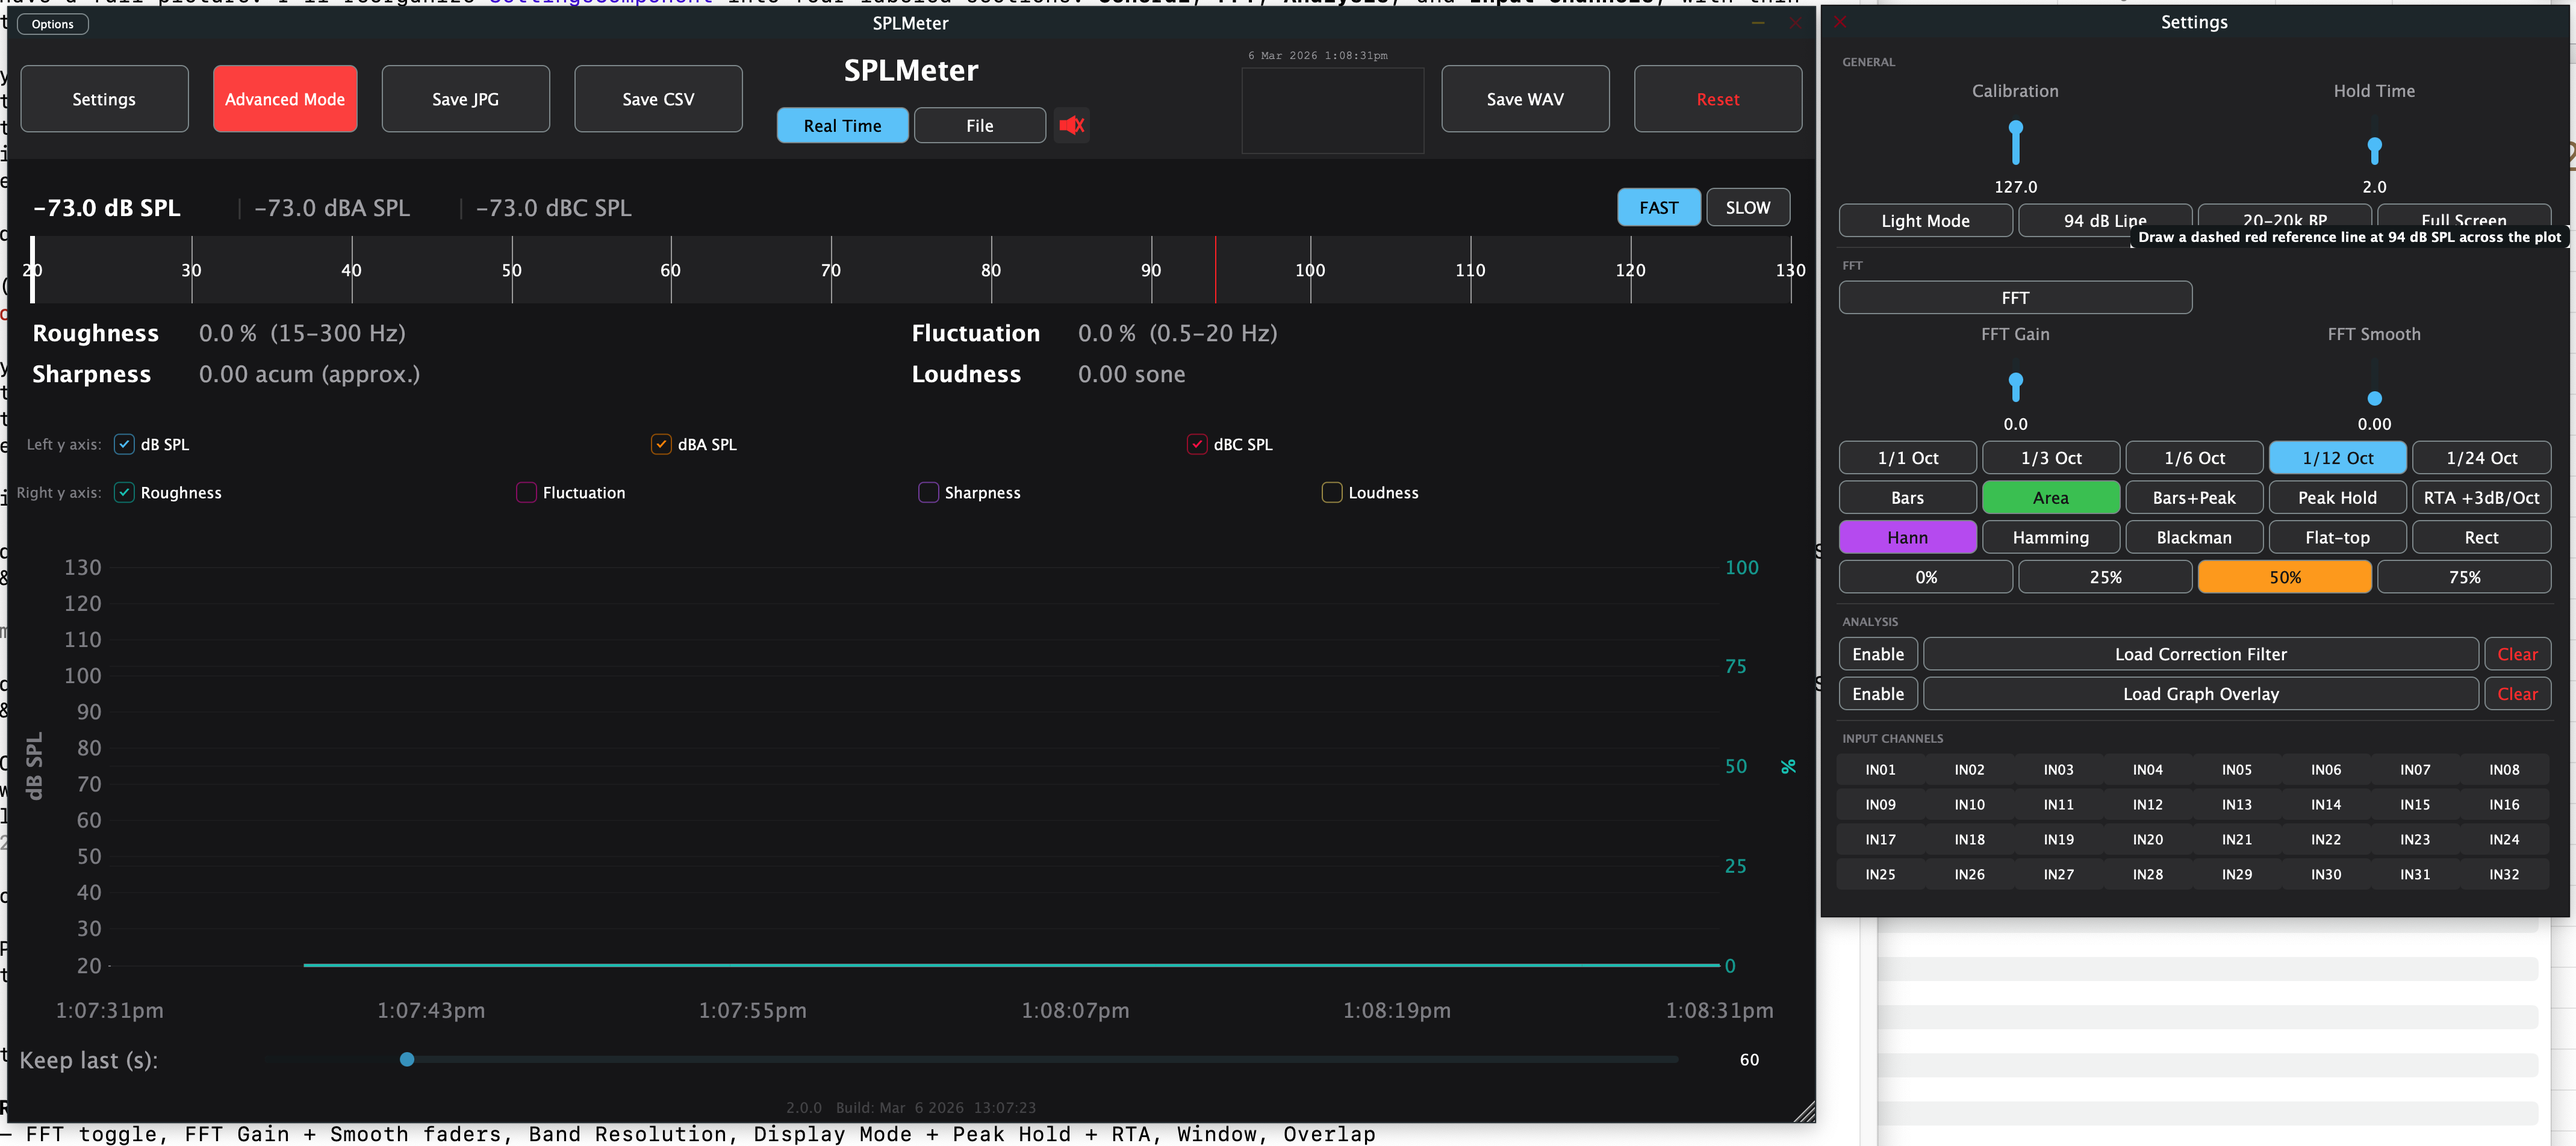
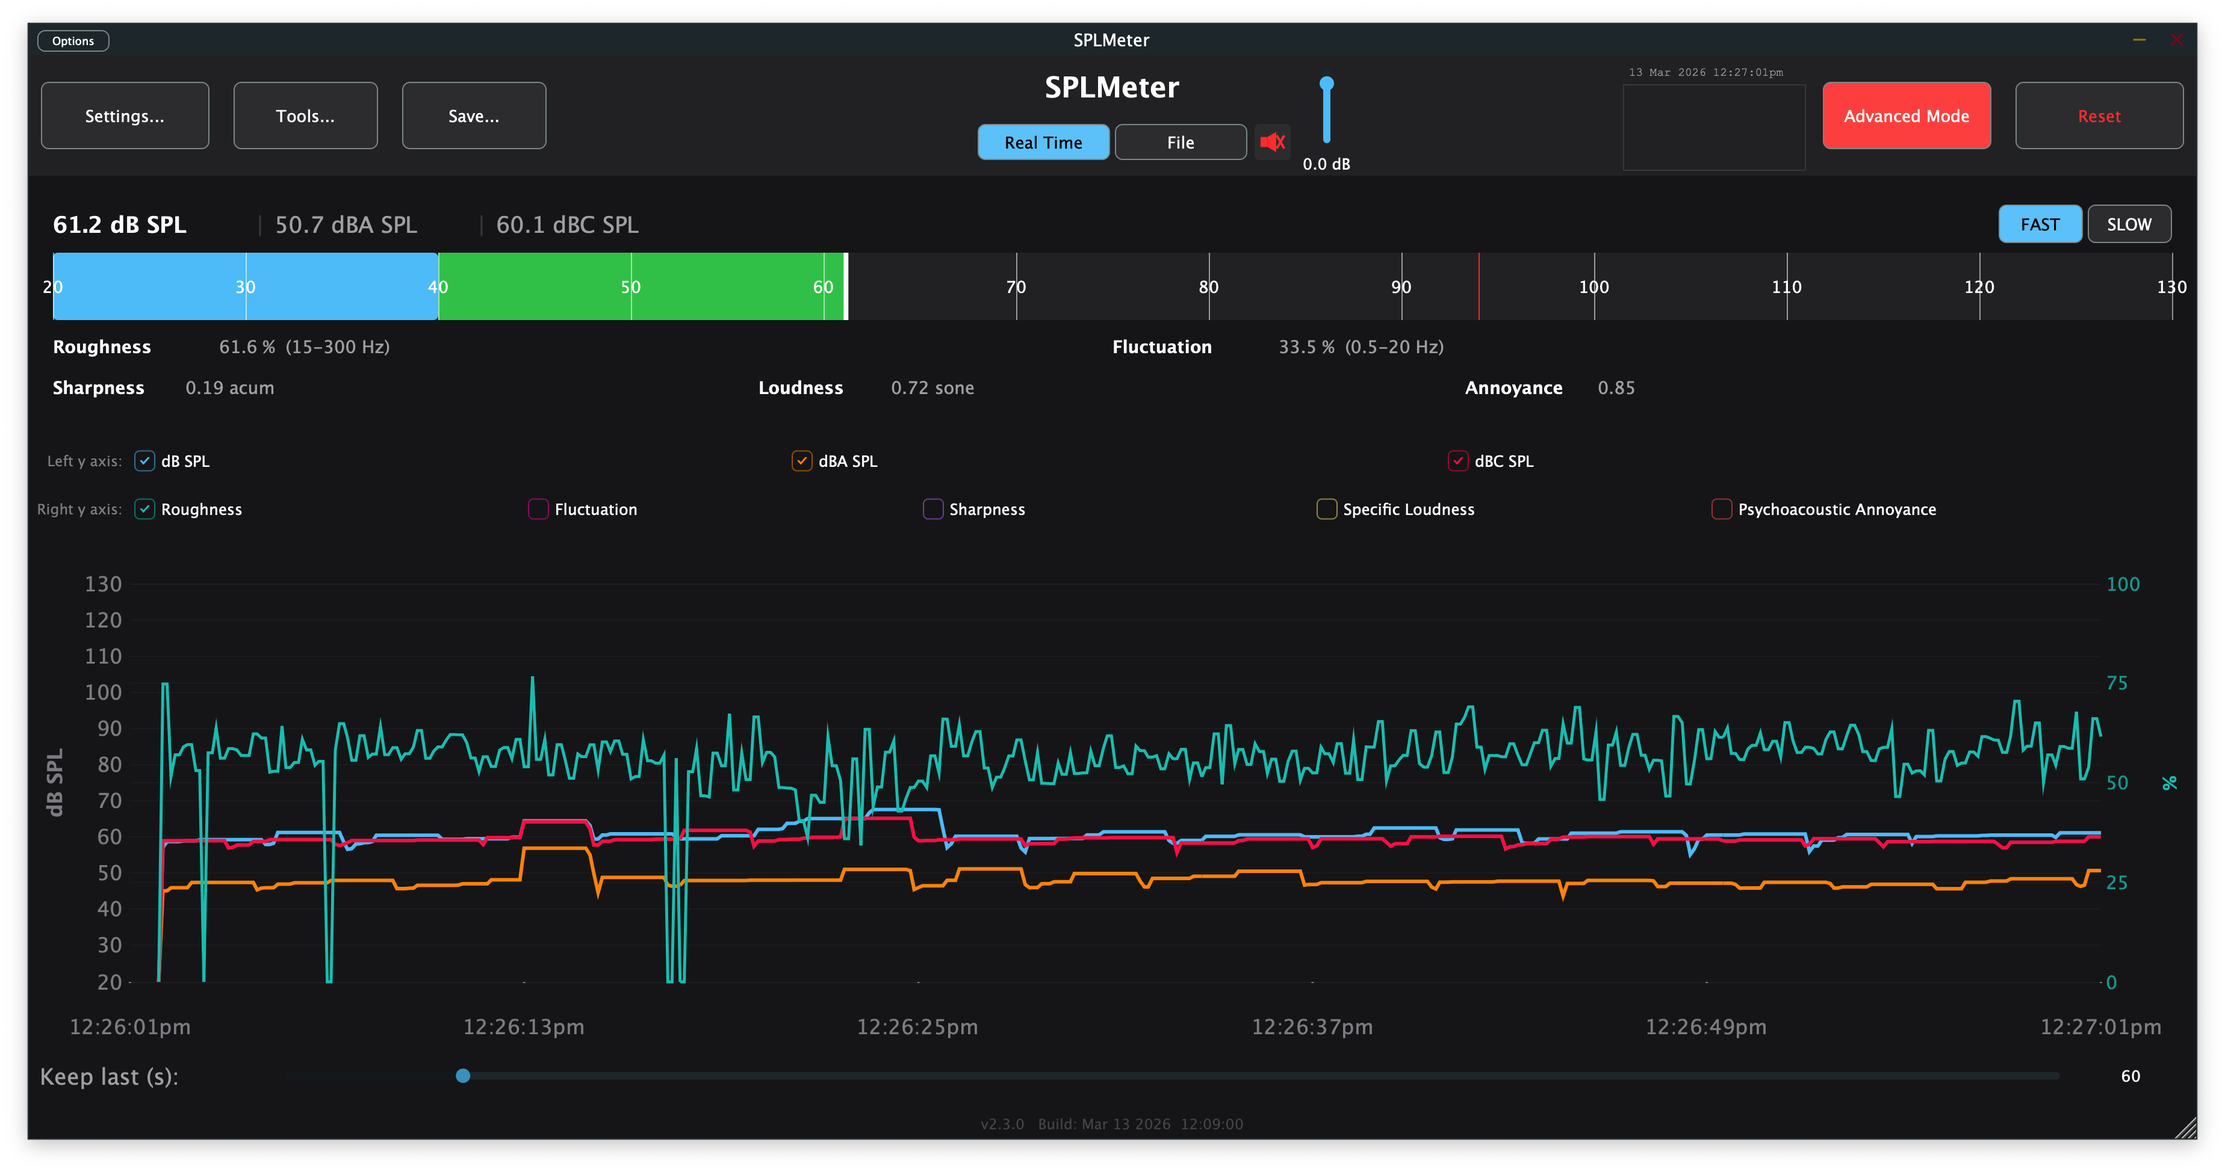
Update README for v2.4.0 with new screenshot

diff --git a/README.md b/README.md
@@ -2,7 +2,7 @@
 
 A professional Sound Pressure Level (SPL) meter built with JUCE, available as a macOS/Windows standalone app and as VST3 / AU plugin.
 
-![SPLMeter v2.0 screenshot](screenShot.png)
+![SPLMeter v2.4 screenshot](screenShot.png)
 
 ---
 
@@ -20,7 +20,12 @@ A professional Sound Pressure Level (SPL) meter built with JUCE, available as a 
 - Numeric SPL readout with peak-hold indicator
 - **Basic / Advanced mode** toggle — Basic shows only the SPL meter; Advanced adds the full log plot and psychoacoustic overlay
 - Time-series **log plot** with per-series visibility toggles (Left y-axis: dB / dB(A) / dB(C))
-- Selectable psychoacoustic overlay on the right y-axis: Roughness, Fluctuation Strength, Sharpness, Loudness
+- Selectable psychoacoustic overlay on the right y-axis: Roughness, Fluctuation Strength, Sharpness, Specific Loudness, Psychoacoustic Annoyance
+
+### Spectrogram
+- Opened via the **Tools…** menu; floating window with configurable controls
+- **Frequency scale:** Log (default) or **Mel**
+- Gain and time-resolution controls
 
 ### FFT Spectrum Analyser
 - Toggled via the **FFT** button; displayed as a semi-transparent overlay on the log plot
@@ -40,7 +45,8 @@ Continuous real-time estimation of:
 | Roughness | Perceived roughness / beating (15–300 Hz AM range) |
 | Sharpness | High-frequency spectral centroid (acum, Zwicker/Aures model) |
 | Fluctuation Strength | Slow amplitude modulation (0.5–20 Hz range) |
-| Loudness | Perceived loudness approximation (sone) |
+| Specific Loudness | Perceived loudness approximation (sone) |
+| Psychoacoustic Annoyance | Combined annoyance index (Zwicker & Fastl 1999): N × (1 + √(w_S² + w_FR²)) |
 
 ### Input Modes
 - **Real Time** — live microphone / audio interface input, up to **32 channels**
@@ -48,13 +54,18 @@ Continuous real-time estimation of:
 - **Monitor button** — speaker icon; output is muted by default, click to enable pass-through
 
 ### Export
-- **Save JPG** — exports the current view as a JPEG image
+Accessible via the **Save…** button (popup menu):
 - **Save CSV** — exports the full measurement log (timestamps, all SPL values, all psychoacoustic metrics) as a CSV file
 - **Save WAV** — saves the last *Keep Last* seconds of Input 01 and 02 as a stereo 24-bit WAV file
+- **Save Screenshot** — exports the current view as a JPEG image
+- **Save All** — saves CSV, WAV, and screenshot in one step into a chosen folder
 
 ### Analysis Tools
-- **Correction Filter** — load a frequency-response correction curve (.txt / .csv: Hz + dB pairs); applied as a linear-phase FIR filter before metering
-- **Graph Overlay** — load a reference curve and display it as a dashed blue line in the FFT view
+Accessible via the **Tools…** button (popup menu):
+- **Spectrogram** — opens the spectrogram floating window (Log or Mel frequency scale)
+- **ViSQOL** *(macOS only)* — perceptual audio quality analysis (MOS-LQO + per-band NSIM)
+- **Correction Filter** — load a frequency-response correction curve (.txt / .csv: Hz + dB pairs); applied as a linear-phase FIR filter before metering (configured in Settings)
+- **Graph Overlay** — load a reference curve and display it as a dashed blue line in the FFT view (configured in Settings)
 
 ### Title Bar Utilities
 - **Live clock** — auto-updating date/time display (updates every second)
@@ -88,7 +99,7 @@ Assigned CC numbers are shown next to each fader label (e.g. `[CC 4]`).
 | FAST / SLOW | IEC 61672 time weighting |
 | Real Time / File | Input source |
 | Monitor (speaker icon) | Enables audio pass-through output; OFF by default |
-| Settings | Opens the settings panel |
+| Settings… | Opens the settings panel |
 | Calibration | dB offset to convert full-scale to SPL (right-click for MIDI learn) |
 | Hold Time | Peak hold duration in seconds (right-click for MIDI learn) |
 | FFT Gain | Input gain for the FFT overlay (right-click for MIDI learn) |
@@ -98,10 +109,9 @@ Assigned CC numbers are shown next to each fader label (e.g. `[CC 4]`).
 | 94 dB Line | Draw a dashed reference line at 94 dB SPL in the log plot |
 | Light Mode | Switch to light theme |
 | Left y axis checkboxes | Visibility of dB SPL / dBA SPL / dBC SPL series |
-| Right y axis checkboxes | Psychoacoustic overlay: Roughness / Fluctuation / Sharpness / Loudness |
-| Save JPG | Export current view as JPEG |
-| Save CSV | Export full measurement log as CSV |
-| Save WAV | Save the last *Keep Last* seconds of IN01 + IN02 as a stereo WAV |
+| Right y axis checkboxes | Psychoacoustic overlay: Roughness / Fluctuation / Sharpness / Specific Loudness / Annoyance |
+| Save… | Popup menu: Save CSV / Save WAV / Save Screenshot / Save All |
+| Tools… | Popup menu: Spectrogram / ViSQOL (macOS) |
 | Reset | Clear log and reset peak holds |
 | Clock | Live date/time (updates every second) |
 | Note field | Free-text annotation field (3 lines) |
@@ -289,11 +299,20 @@ GitHub Actions workflows build the standalone for macOS and Windows on every pus
 |---|---|
 | **IEC 61672-1:2013** | Electroacoustics — Sound level meters. Defines FAST (125 ms) and SLOW (1 s) time weighting and A/C frequency weighting curves. |
 | **ISO 266:1997** | Preferred frequencies — defines the 31 standard 1/3-octave band centre frequencies (20 Hz – 20 kHz). |
-| **Zwicker & Fastl, *Psychoacoustics: Facts and Models* (3rd ed., Springer, 2007)** | Theoretical basis for the Roughness, Sharpness, Fluctuation Strength, and Loudness estimators. |
+| **Zwicker & Fastl, *Psychoacoustics: Facts and Models* (3rd ed., Springer, 2007)** | Theoretical basis for the Roughness, Sharpness, Fluctuation Strength, Specific Loudness, and Psychoacoustic Annoyance estimators. |
 
 ---
 
 ## Changelog
+
+### v2.4.0
+- **Psychoacoustic Annoyance** — real-time Zwicker & Fastl annoyance index (PA) added as a momentary readout in the meter bar and as a selectable trace on the right y-axis of the log plot; included in CSV export
+- **Specific Loudness** — renamed from "Loudness" throughout the UI and CSV output for clarity
+- **Mel frequency scale** — spectrogram now offers a Log / Mel toggle; Mel scale compresses high frequencies and expands low frequencies for perceptually-uniform display
+- **Save… menu** — Save CSV, Save WAV, Save Screenshot, and Save All grouped under a single popup button; Save All exports all three formats in one step to a chosen folder
+- **Tools… menu** — Spectrogram and ViSQOL (macOS) grouped under a single popup button
+- **ASIO level fix** — level readings with ASIO drivers (e.g. 32-channel interfaces) were up to 30 dB too low because the mono mix divided by total hardware channel count; fix counts only channels carrying signal
+- **Settings… button** — renamed from "Settings" for standard macOS/Windows UI convention
 
 ### v2.3.0
 - **Persistent user settings** — all settings (monitor level, FFT parameters, calibration, hold time, bandpass, 94 dB line, light mode, etc.) are saved to disk and restored on the next launch
